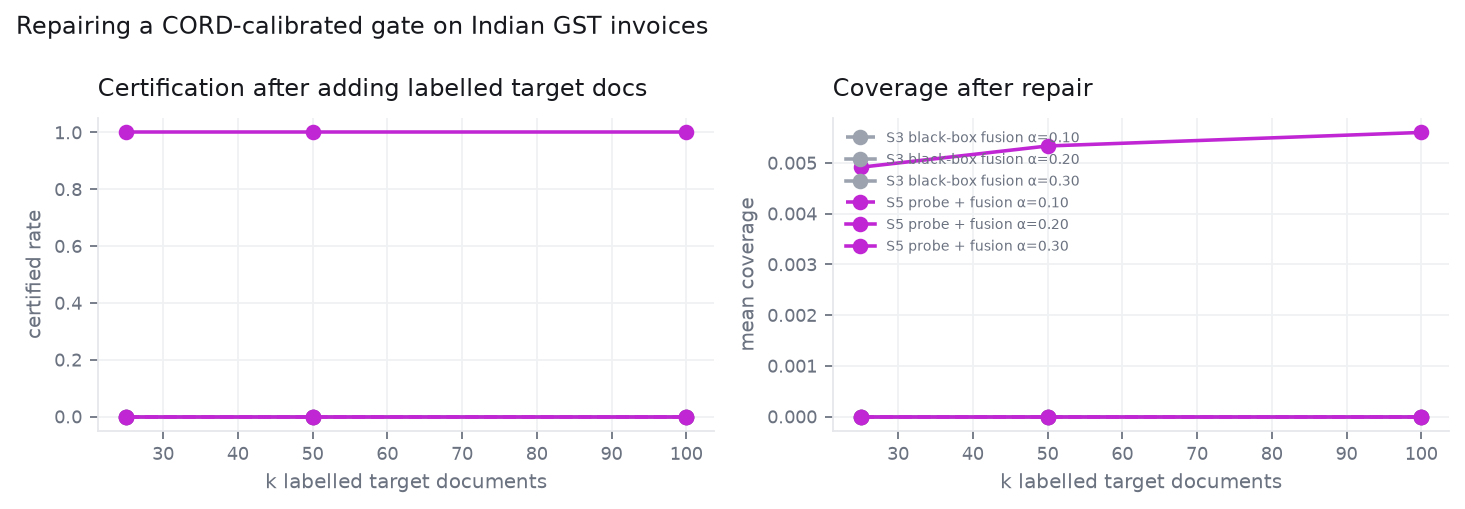
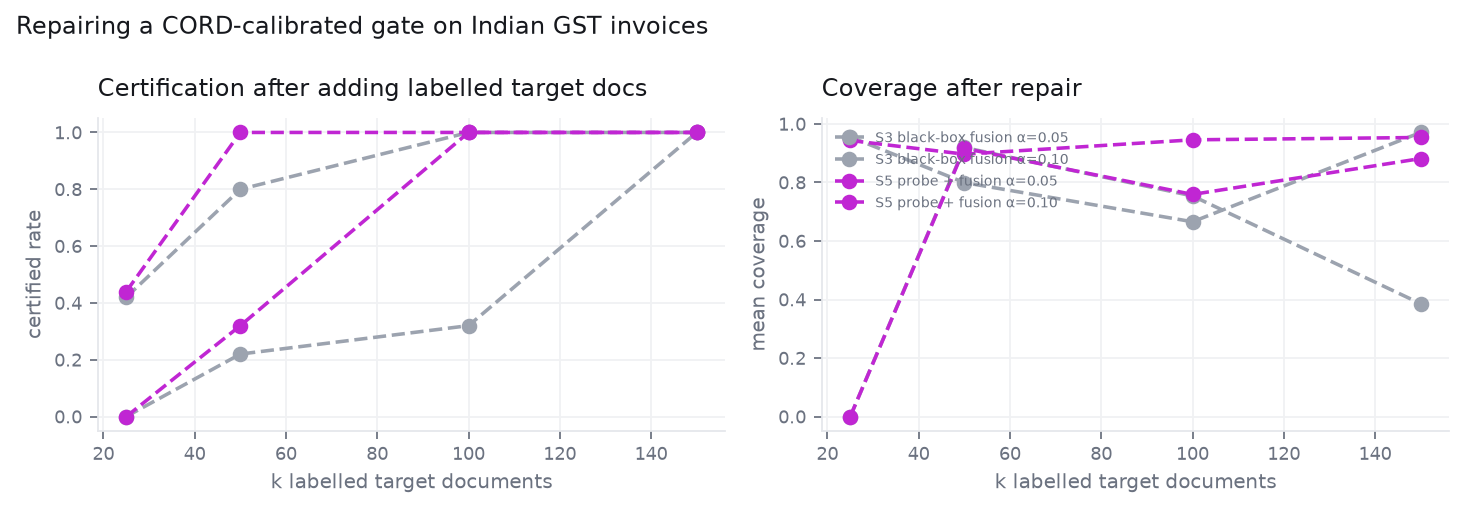
feat(eval): recalibrate on target documents alone when repairing shift
Answers the business question directly: how many labelled documents a new client template needs before its certificate is valid.

diff --git a/src/underwrite/eval/shift.py b/src/underwrite/eval/shift.py
@@ -92,12 +92,17 @@ def repair_curve(
     n_draws: int = 50,
     seed: int = 0,
     grid: Sequence[float] | None = None,
+    include_source: bool = True,
 ) -> pd.DataFrame:
-    """Recalibrate with ``k`` labelled target documents added to the source calibration.
+    """Recalibrate with ``k`` labelled target documents.
 
     Each draw labels a random ``k`` of the target documents, recalibrates, and scores
     the remaining target documents -- so the added labels are never used to grade the
     documents they came from.
+
+    With ``include_source=False`` the recalibration uses only the ``k`` target
+    documents. That answers the business question directly: how many labelled
+    documents does a new client's template need before its certificate is valid.
     """
     source_scores = np.asarray(source_scores, dtype=float)
     source_errors = np.asarray(source_errors, dtype=float)
@@ -122,8 +127,12 @@ def repair_curve(
             order = rng.permutation(target_scores.size)
             labelled, heldout = order[:k], order[k:]
 
-            calibration_scores = np.concatenate([source_scores, target_scores[labelled]])
-            calibration_errors = np.concatenate([source_errors, target_errors[labelled]])
+            if include_source:
+                calibration_scores = np.concatenate([source_scores, target_scores[labelled]])
+                calibration_errors = np.concatenate([source_errors, target_errors[labelled]])
+            else:
+                calibration_scores = target_scores[labelled]
+                calibration_errors = target_errors[labelled]
 
             result = certify(calibration_scores, calibration_errors, alpha, delta, grid)
             if not result.certified:

diff --git a/tests/test_shift.py b/tests/test_shift.py
@@ -109,3 +109,22 @@ def test_repair_curve_rejects_k_larger_than_the_corpus():
 def test_repair_curve_rejects_mismatched_lengths():
     with pytest.raises(ValueError):
         repair_curve([0.1, 0.2], [0], [0.1, 0.2], [0, 0], ks=[1], alpha=0.1, delta=0.1)
+
+
+def test_target_only_repair_ignores_the_source_corpus():
+    """Calibrating on the target documents alone is what a new client template needs."""
+    rng = np.random.default_rng(11)
+    target_scores, target_errors = draw(rng, 400, error_scale=0.5)
+    # A source corpus that would certify everything: it must not leak into the repair.
+    source_scores = np.linspace(0, 1, 400)
+    source_errors = np.zeros(400, dtype=int)
+
+    pooled = repair_curve(
+        source_scores, source_errors, target_scores, target_errors,
+        ks=[100], alpha=0.10, delta=0.1, n_draws=5, seed=12, include_source=True,
+    )
+    target_only = repair_curve(
+        source_scores, source_errors, target_scores, target_errors,
+        ks=[100], alpha=0.10, delta=0.1, n_draws=5, seed=12, include_source=False,
+    )
+    assert not pooled.equals(target_only)

diff --git a/scripts/run_shift.py b/scripts/run_shift.py
@@ -36,6 +36,12 @@ def main() -> int:
     parser.add_argument("--alphas", nargs="+", type=float, default=[0.10, 0.05])
     parser.add_argument("--delta", type=float, default=0.1)
     parser.add_argument("--ks", nargs="+", type=int, default=[25, 50, 100])
+    parser.add_argument(
+        "--include-source",
+        action="store_true",
+        help="pool the source calibration with the k labelled target documents "
+        "(default: calibrate on the k target documents alone)",
+    )
     parser.add_argument("--n-draws", type=int, default=50)
     parser.add_argument("--seed", type=int, default=20261017)
     parser.add_argument("--out", default="reports/tables/shift.csv")
@@ -91,6 +97,7 @@ def main() -> int:
                 args.delta,
                 n_draws=args.n_draws,
                 seed=args.seed,
+                include_source=args.include_source,
             )
             curve["method"] = method
             repairs.append(curve)
